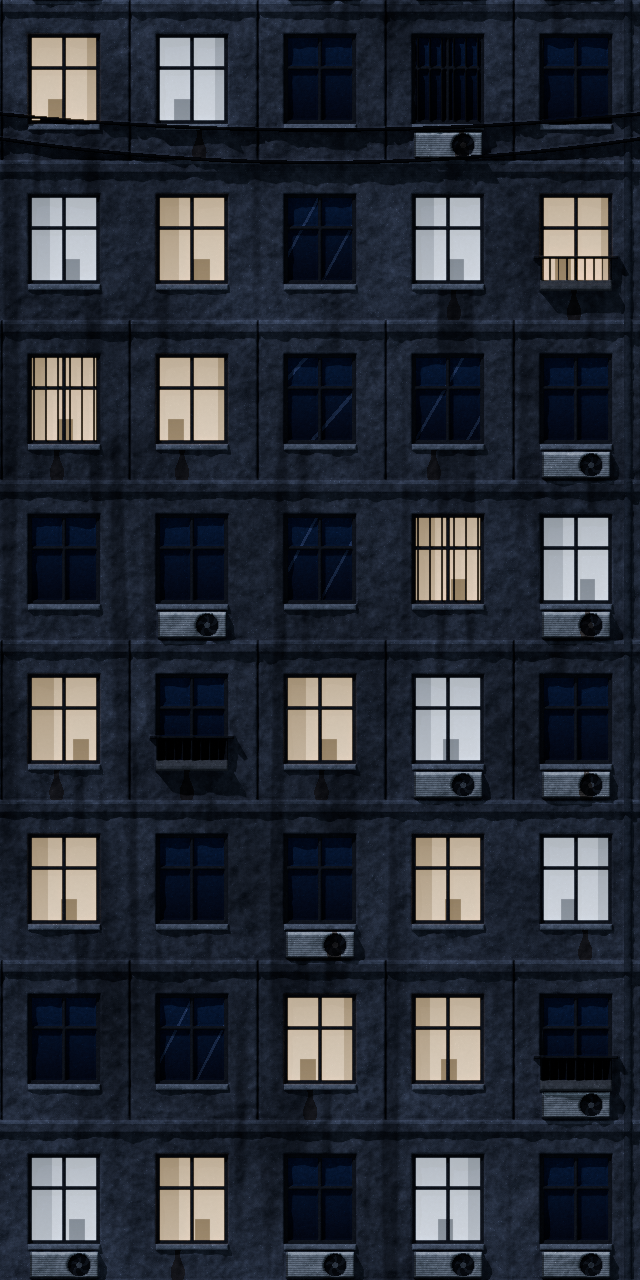
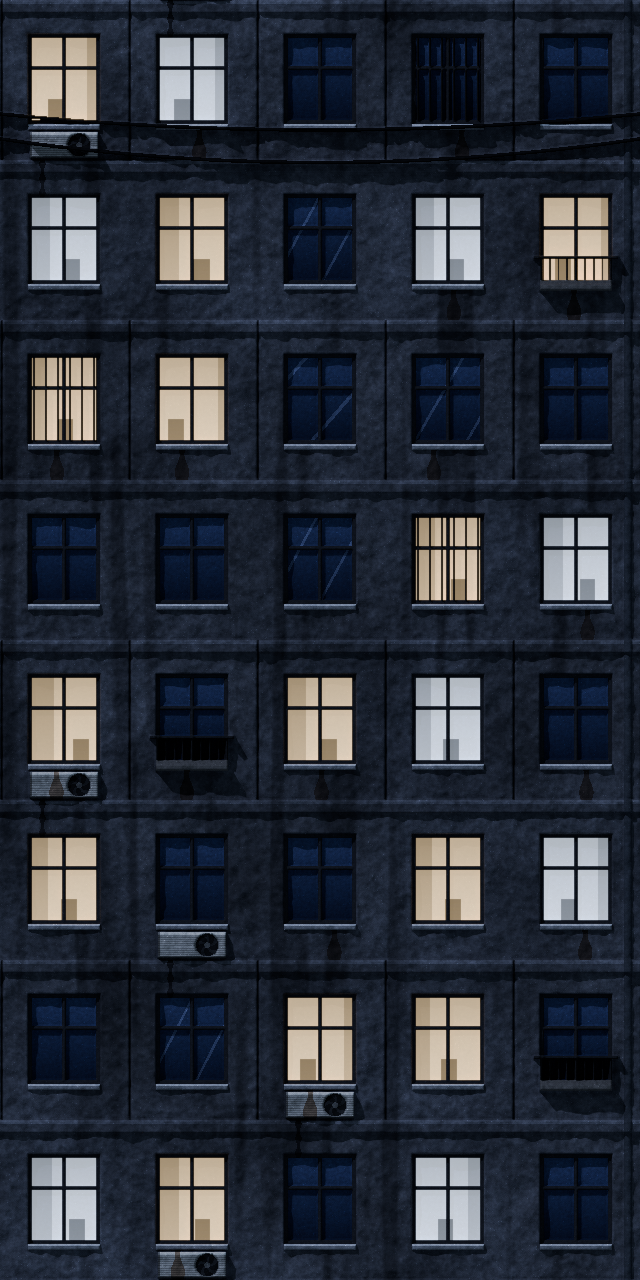
Версия 2026.11.07-127: город по критику r39 — горит половина окон, сильнее отсвет на стене, кондиционеры вразнобой
Гаснет 15 % горящих в текстуре окон вместо половины — горит около 47 % (в кадре 69 → 126 окон), холодных среди них больше,
тёплый отсвет окон на стене ×1,4, стена чуть светлее и теплее. Фасад (make_facade.py): кондиционеры не рядами — не больше
одного на этаж плитки, с подтёком под блоком; мокрый блик на подоконниках; тёмные стёкла светлее с отражением неба.

Claude-Session: https://claude.ai/code/session_01JvXrYdG1XCH4i3GESsQzbh

diff --git a/js/terrain_visual.js b/js/terrain_visual.js
@@ -223,7 +223,7 @@ function windowSpill(px, winL, W, H) {
     const hy = Math.max(0, Math.min(h - 1, (y - 3) >> 1)) * w;
     for (let x = 0; x < W; x++) {
       const gi = y * W + x; if (winL[gi]) continue; const j = gi * 4; if (!px[j + 3]) continue;
-      const k = Math.min(1, a[hy + Math.min(w - 1, x >> 1)] / 255 * 1.8) * 0.75; if (k < 0.01) continue;
+      const k = Math.min(1, a[hy + Math.min(w - 1, x >> 1)] / 255 * 2.4) * 1.05; if (k < 0.01) continue;   /* v127 (критик r39: «свет окон на стене +30/+25 L на 1–3/3–6 px, нужно +55/+38»): ×1,4 */
       px[j] = Math.min(255, px[j] * (1 + k * 1.3) + k * 34); px[j + 1] = Math.min(255, px[j + 1] * (1 + k * 0.7) + k * 14); px[j + 2] = Math.min(255, px[j + 2] * (1 + k * 0.1) + k * 2);   /* тёплый: у эталона R/G у окна 1,46 */
     }
   }
@@ -285,7 +285,7 @@ function snowRockL(L) {
 /* v110 (критик r36: горящих окон 8,6–10,6 % фасада при ~5 % в эталоне; «битые» окна — у погашенного горящего окна оставались
    силуэты шторы и мебели): гаснет половина окон, стекло погасшего окна — тёмное с отражением неба, как у тёмных окон текстуры
    (геометрия окна — make_facade.py: ячейка 32×40, стекло 7…25 × 8,5…31, рама 5 %, переплёт по 0,5 и 0,38) */
-const WIN_OFF = 0.5, OFFP = { r: 0, g: 0, b: 0 };
+const WIN_OFF = 0.15, OFFP = { r: 0, g: 0, b: 0 };   /* v127 (критик r39: «горит около 25 % окон, у эталона около 50 %»): гаснет 15 % горящих в текстуре — горит ~47 % */
 function offGlass(S, lx, ly, idx, o) {
   const cx = ((lx % 32) + 32) % 32, cy = ((ly % 40) + 40) % 40; if (cx < 7 || cx >= 25 || cy < 8.5 || cy >= 31) return false;
   const wc = Math.floor(lx / 32), wr = Math.floor(ly / 40); if (hash3(wc, wr, idx * 7 + 11) >= WIN_OFF) return false;
@@ -787,7 +787,7 @@ function shadeMaterial(S, mt, x, y, t, capT, d, info, o, isBack) {
             // свет каждого окна свой (ячейка окна в координатах здания, а не плитки): часть гаснет, у остальных — разная яркость и тон
             const wc = Math.floor((x - prm.x0) / 32), wr = Math.floor((y - prm.y0) / 40), hw = hash3(wc, wr, info.idx * 7 + 11), ht = hash3(wc, wr, info.idx * 7 + 12);
             if (hw < WIN_OFF) { r *= 0.16; g *= 0.17; bl *= 0.2; }   /* погасшее окно (стекло целиком — offGlass ниже) */
-            else { const k = 0.95 + hw * 0.52, warmW = ht < 0.86;   /* v103 (r35: окна тусклее эталона — 208/159/113 против 235/176/113): ×1,3 */   /* r33: тёплых окон ~60 %, холодных ~10 % */ r = Math.min(255, r * k * (warmW ? 1.06 : 0.92)); g = Math.min(255, g * k * (warmW ? 0.84 : 0.98)); bl = Math.min(255, bl * k * (warmW ? 0.58 : 1.1));   /* большинство окон — тёплый свет ламп, как в эталоне */
+            else { const k = 0.95 + hw * 0.52, warmW = ht < 0.78;   /* v127: холодных окон среди горящих 8 % → ~15 % (критик r39) */   /* v103 (r35: окна тусклее эталона — 208/159/113 против 235/176/113): ×1,3 */   /* r33: тёплых окон ~60 %, холодных ~10 % */ r = Math.min(255, r * k * (warmW ? 1.06 : 0.92)); g = Math.min(255, g * k * (warmW ? 0.84 : 0.98)); bl = Math.min(255, bl * k * (warmW ? 0.58 : 1.1));   /* большинство окон — тёплый свет ламп, как в эталоне */
               o.emit = true; o.emitTex = true; o.ga = (isBack ? 150 : 230) * (0.6 + hw * 0.4); o.gr = r; o.gg = g; o.gb = bl; o.r = r; o.g = g; o.b = bl; }
           }
           else { r *= S.tgR; g *= S.tgG; bl *= S.tgB; }                                              // стены: яркость по эталону (gain темы)

diff --git a/js/themes.js b/js/themes.js
@@ -179,7 +179,7 @@ const THEMES = {
       strata: ['#3d3630', '#4a4038', '#352f2a', '#554a40'], band: 30, bandSharp: 0.3,
       rock: ['#4a4a52', '#3e3e46', '#56565e'],
       pebbles: ['#4a4642', '#3c3936', '#56524c'], smoothStones: false,   /* v103 (r35: «мармеладки на земле»): щебень, а не гладкие шары */
-      outline: '#07080d', rim: '#8890a8', rimK: 0.25, veins: null, ceiling: 'drips', capMats: [1], tex: { concrete: 'concrete_city', facade: 'facade_city', gain: [2.9, 2.3, 1.3] /* v123 (критик r38: «стена L50 32 → 22–25»): ×0,74; v93: стена по замеру к эталону (дальняя стена 19/23/33 при эталоне 29/30/39); было [2.9, 2.6, 1.6] */ },
+      outline: '#07080d', rim: '#8890a8', rimK: 0.25, veins: null, ceiling: 'drips', capMats: [1], tex: { concrete: 'concrete_city', facade: 'facade_city', gain: [3.45, 2.65, 1.45] /* v127 (критик r39: «стена (32,31,33) → (41,34,38), правый дом L50 19 → 25, стёкла (15,18,30) → (31,34,47)»): ×1,15–1,19, теплее; v123 (критик r38: «стена L50 32 → 22–25»): ×0,74; v93: стена по замеру к эталону (дальняя стена 19/23/33 при эталоне 29/30/39); было [2.9, 2.6, 1.6] */ },
     },
     scatter: ['trash', 'tuft'],
     weather: null, birds: false, ambient: '#aaa8cf', ambientSound: 'city', glow: true,   // без дождя (просьба игрока)

diff --git a/index.html b/index.html
@@ -114,7 +114,7 @@
         </div>
       </div>
     </div>
-    <footer class="menu-footer"><span id="game-version">ВЕРСИЯ 2026.11.07-126</span><span>ПЛАНИРУЙ ХОД. МЕНЯЙ ЛАНДШАФТ.</span><span class="footer-status"><i></i> ГОТОВ К БОЮ</span></footer>
+    <footer class="menu-footer"><span id="game-version">ВЕРСИЯ 2026.11.07-127</span><span>ПЛАНИРУЙ ХОД. МЕНЯЙ ЛАНДШАФТ.</span><span class="footer-status"><i></i> ГОТОВ К БОЮ</span></footer>
   </section>
 
   <!-- Онлайн -->

diff --git a/dev/blender/make_facade.py b/dev/blender/make_facade.py
@@ -56,7 +56,7 @@ def field(seed=161):
     lit = rw[ri, ci] < 0.55
     frame = win & ((lx < 0.05) | (lx > 0.95) | (ly < 0.04) | (ly > 0.96) | (np.abs(lx - 0.5) < 0.025) | (np.abs(ly - 0.38) < 0.02))
     glass = win & ~frame
-    sky = np.stack([18 + 30 * (1 - ly), 22 + 34 * (1 - ly), 40 + 50 * (1 - ly)], -1).astype(np.float32)
+    sky = np.stack([27 + 45 * (1 - ly), 33 + 48 * (1 - ly), 55 + 60 * (1 - ly)], -1).astype(np.float32)   # v127 (критик r39: «тёмные стёкла (15,18,30) → (31,34,47) с градиентом отражения»)
     diag = (gl[ri, ci] < 0.2) & (((lx * slope[ri, ci] + ly + hue[ri, ci]) % 1.0) < 0.06)
     sky = np.where(diag[..., None], sky + 40, sky)
     warm = np.where((hue[ri, ci] < 0.6)[..., None], np.array([255, 196, 120], np.float32), np.array([200, 222, 255], np.float32))
@@ -70,13 +70,19 @@ def field(seed=161):
     H = np.where(glass, -3.0, np.where(frame, -1.6, H))
     sill = inx & (fy >= wy0 + wh) & (fy < wy0 + wh + 1.6)
     H = np.where(sill, H + 1.2, H); C = np.where(sill[..., None], np.array([120, 120, 124], np.float32), C)
+    C = np.where((sill & (fy < wy0 + wh + 0.5))[..., None], np.array([178, 180, 186], np.float32), C)   # v127 (критик r39): мокрый блик по кромке подоконника
     # кондиционер под частью окон, водосток у края плитки
     # v117 (критик r37: «кондиционеры — светлые наклейки L 150 под каждым вторым окном»): у 15 % окон.
     # v122 (критик r38: «кондиционеры невидимы — тёмное на тёмном»): светлый корпус шириной с окно со светлой верхней кромкой
     # (на экране p95 ~105), горизонтальная решётка слева, тёмный круг вентилятора с лопастями справа (L 15–20), тень снизу —
     # от рельефа (корпус выступает на 3,2 ед.)
     a0, a1, b0, b1 = wx0 + 0.6, wx0 + ww - 0.6, wy0 + wh + 2.0, wy0 + wh + 8.6
-    ac = (hue[ri, ci] > 0.85) & (fx >= a0) & (fx < a1) & (fy >= b0) & (fy < b1)
+    # v127 (критик r39: «кондиционеры рядами по 4–6 под окнами одного этажа — нужно не больше одного на 3 окна, вразнобой, с подтёком»):
+    # в каждом ряду плитки (5 окон) — не больше одного, в 60 % рядов, столбец свой
+    nrow, ncol = rw.shape; acc = np.zeros((nrow, ncol), bool); ra = np.random.default_rng(seed + 7)
+    for rr_ in range(nrow):
+        if ra.random() < 0.6: acc[rr_, int(ra.integers(0, TW // CW))] = True
+    ac = acc[ri, ci] & (fx >= a0) & (fx < a1) & (fy >= b0) & (fy < b1)
     acx = (fx - (a1 - 4.6)) / 3.0; acy = (fy - (b0 + b1) / 2) / 3.0; rr = acx * acx + acy * acy; fan = rr < 1
     blade = ((np.arctan2(acy, acx) + 0.9 * np.sqrt(rr)) * 5 / (2 * math.pi)) % 1.0 < 0.38
     slat = 0.82 + 0.18 * (((fy - b0) * 2.2 % 1.0) > 0.45)
@@ -88,6 +94,8 @@ def field(seed=161):
     fanc = np.where((rr < 0.06)[..., None], np.array([90, 90, 90], np.float32), fanc)
     C = np.where(ac[..., None], np.where(fan[..., None], fanc, body), C)
     H = np.where(ac, H + np.where(fan, 2.2, 3.2), H)
+    drip = acc[(ri - 1) % (TH // RH), ci] & (np.abs(fx - (a0 + 3.0)) < 0.55 + 0.25 * np.sin(fy * 1.7)) & (fy < 9.5)   # подтёк под блоком (в начале следующей ячейки)
+    C = np.where(drip[..., None], C * np.array([0.62, 0.6, 0.6], np.float32) * (0.75 + 0.25 * (fy / 9.5))[..., None], C)
     pipe = np.abs(xx - (TW - 3)) < 1.1
     H = np.where(pipe, H + 1.1 * np.sqrt(np.clip(1 - ((xx - (TW - 3)) / 1.1) ** 2, 0, 1)), H); C = np.where(pipe[..., None], np.array([62, 64, 70], np.float32), C)
     # v120 (критик r37: «сетка одинаковых окон — 2–4 элемента на этаж: решётки, водостоки, кабели, балконы»):
